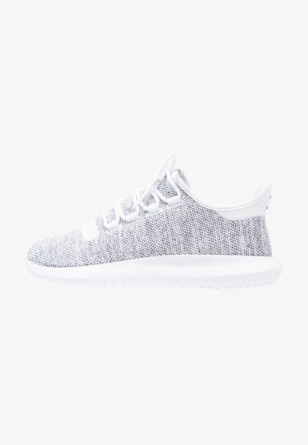
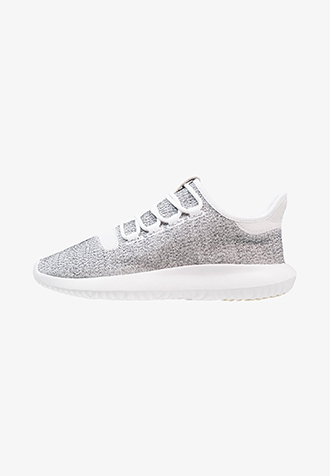
Zoomed images

Changed region(s): [[0.0877, 0.3506, 0.9058, 0.6427], [0.8474, 0.409, 0.8766, 0.4382]]

diff --git a/src/app/shared/components/product-card/product-card.component.html b/src/app/shared/components/product-card/product-card.component.html
@@ -2,7 +2,10 @@
   <div *ngIf="product.photo1big && showPreview" [style.backgroundImage]="'url(' + product.photo1big + ')'" class="card-img-top"></div>
   <a [routerLink]="['/product/', product.$key]">
     <!-- <img *ngIf="product.photo1 && showImage" [src]="product.photo1" class="card-img-zoom"> -->
-    <div *ngIf="product.photo1big && showImage" [style.backgroundImage]="'url(' + product.photo1big + ')'" class="card-img-top"></div>
+    <!--<div *ngIf="product.photo1big && showImage" [style.backgroundImage]="'url(' + product.photo1big + ')'" class="card-img-top"></div>-->
+
+    <ngx-image-zoom *ngIf="product.photo1big && showImage" [thumbImage]="product.photo1small" [fullImage]="product.photo1big" [magnification]="0.5"></ngx-image-zoom>
+
     <ngx-gallery *ngIf="showGallery" [options]="galleryOptions" [images]="galleryImages"></ngx-gallery>
   </a>
   <div *ngIf="product.sale && !product.thenew" class="card-header card-header-sale">

diff --git a/src/app/shared/components/product-card/product-card.component.css b/src/app/shared/components/product-card/product-card.component.css
@@ -89,6 +89,10 @@
     top: 90%;
 }
 
+ngx-image-zoom /deep/ .ngxImageZoomContainer {
+  width: inherit !important;
+}
+
 ngx-gallery /deep/ .ngx-gallery-image {
     background-position: center;
     background-repeat: no-repeat;

diff --git a/src/app/shopping/components/products/products.component.css b/src/app/shopping/components/products/products.component.css
@@ -8,6 +8,9 @@
     margin-top: 25px;
     margin-bottom: 30px;
 }
+.alert {
+    border: none;
+}
 .py-2 {
     outline: hidden;
     box-shadow: none;
